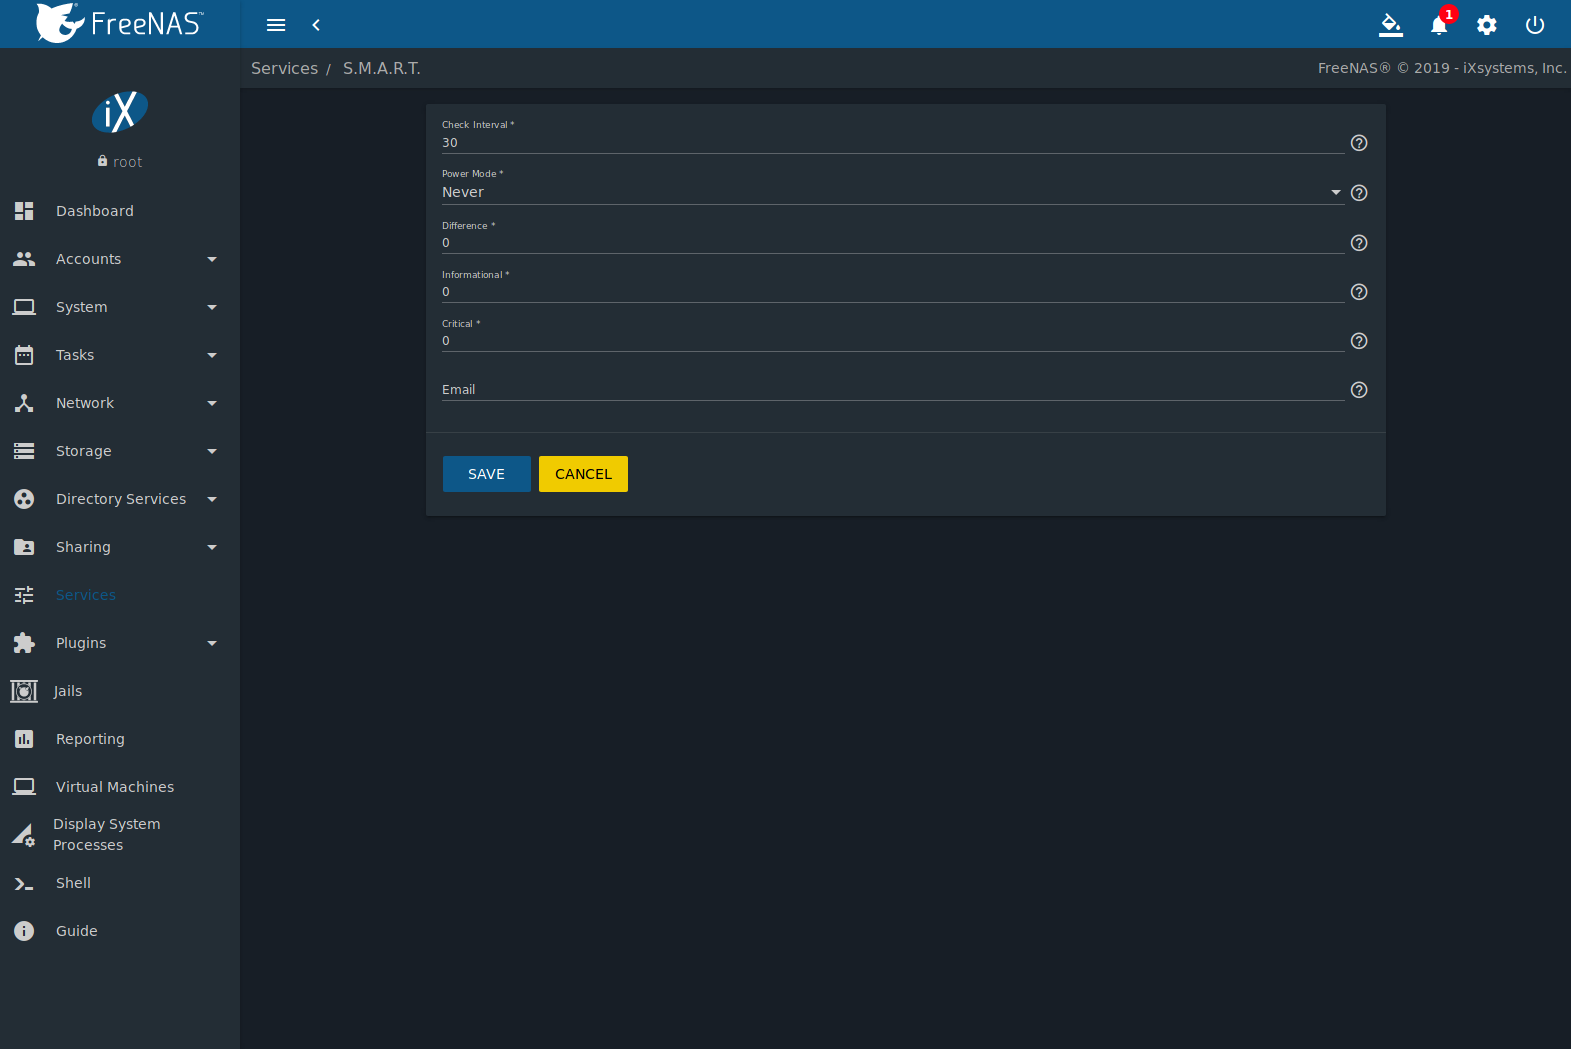
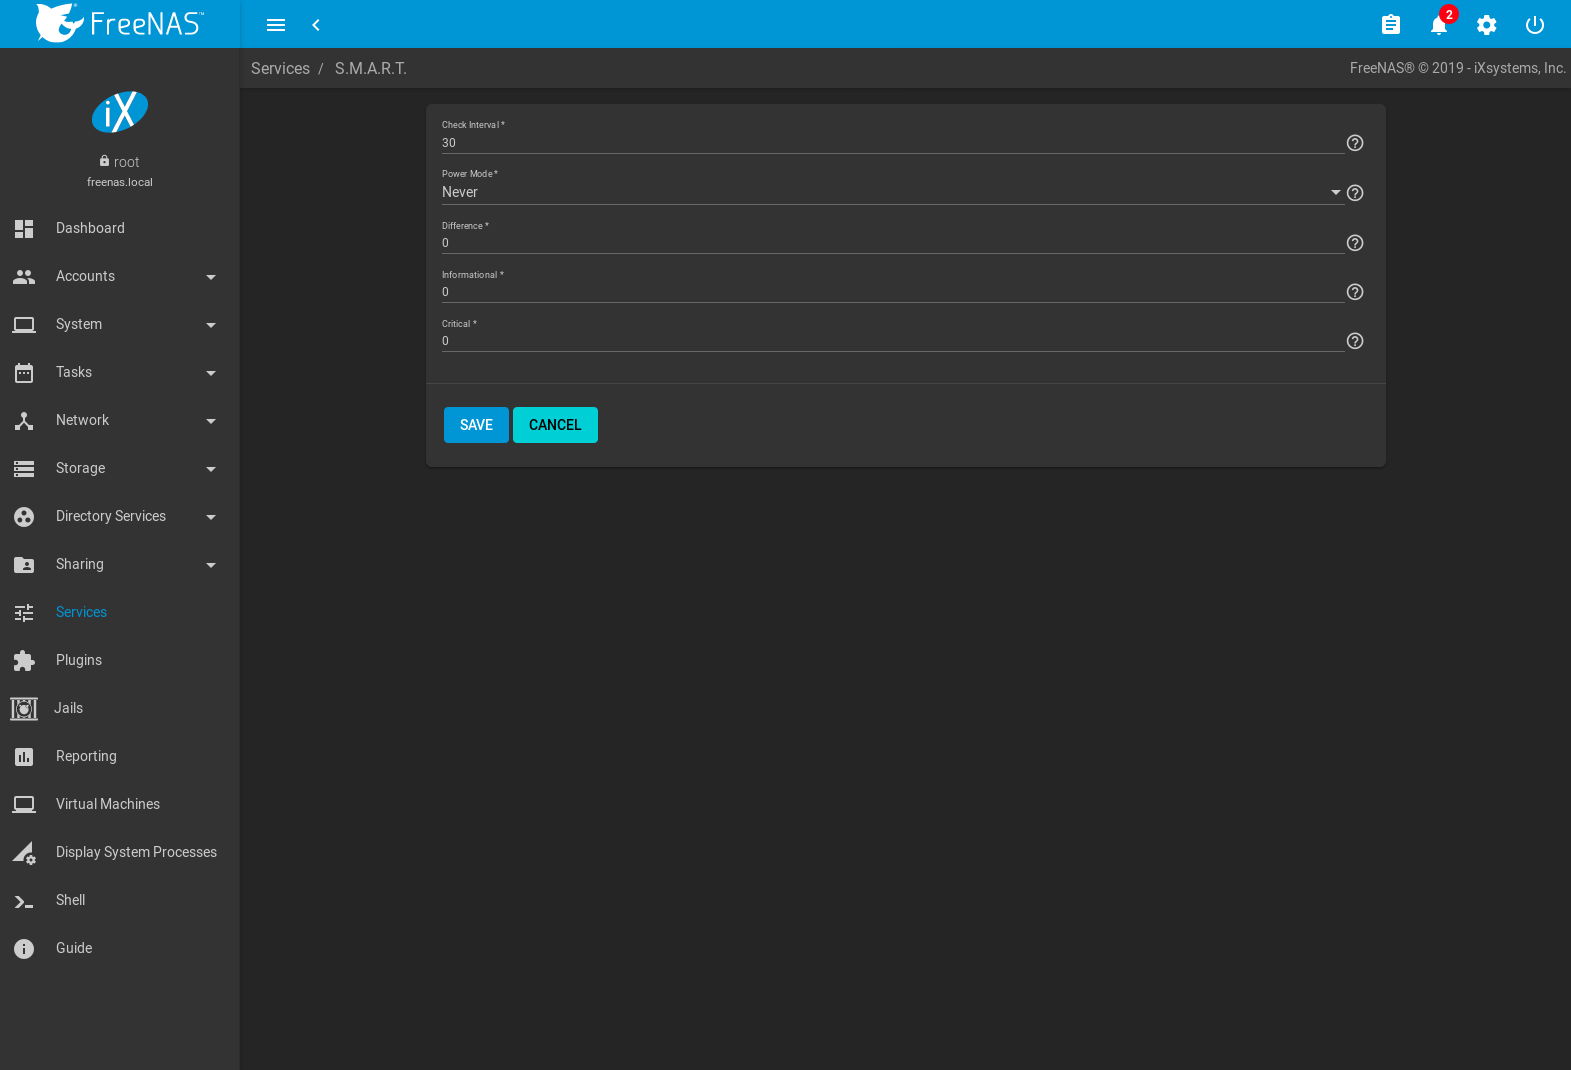
NAS-103035: Update SMART alert behavior - Add intro entry that communicates what has changed and the new behavior for previously configured SMART Alert Email addresses - Remove obsolete sentences from SMART tasks section. - Update SMART Service Configuration description - Update related image. - Ver

diff --git a/userguide/services.rst b/userguide/services.rst
@@ -1168,8 +1168,9 @@ complete configuration consists of:
 #.  Starting the S.M.A.R.T. service in :guilabel:`Services`.
 
 :numref:`Figure %s <smart_config_opts_fig>`
-shows the configuration screen that appears after clicking
-:menuselection:`Services --> S.M.A.R.T --> Configure`.
+shows the configuration screen that appears after going to
+:menuselection:`Services --> S.M.A.R.T`
+and clicking |ui-configure|.
 
 
 .. _smart_config_opts_fig:
@@ -1224,9 +1225,6 @@ summarizes the options in the S.M.A.R.T configuration screen.
    +-----------------+----------------------------+-------------------------------------------------------------------------------------------------------------+
    | Critical        | integer in degrees Celsius | Enter a threshold temperature in Celsius. S.M.A.R.T will message with a log level of LOG_CRIT and           |
    |                 |                            | send an email if the temperature is higher than the threshold. Default of *0* disables this option.         |
-   |                 |                            |                                                                                                             |
-   +-----------------+----------------------------+-------------------------------------------------------------------------------------------------------------+
-   | Email           | string                     | Enter email address to receive S.M.A.R.T. alerts. Use a space to separate multiple email addresses.         |
    |                 |                            |                                                                                                             |
    +-----------------+----------------------------+-------------------------------------------------------------------------------------------------------------+
 

diff --git a/userguide/intro.rst b/userguide/intro.rst
@@ -424,6 +424,12 @@ These screen options have changed:
 * :guilabel:`Domain Controller` has been removed from
   :ref:`Services`.
 
+* :guilabel:`Email` has been removed from the
+  :ref:`S.M.A.R.T. Service Options <S.M.A.R.T.>`. S.M.A.R.T. alerts are
+  configured as part of an :ref:`alert service <Alert Services>`. Note
+  that email addresses previously configured to receive S.M.A.R.T. alerts
+  now receive all %brand% :ref:`alerts <Alert>`.
+
 * :guilabel:`Host Sync` has been added to the
   :ref:`UPS service options <ups_config_opts_tab>`.
 

diff --git a/userguide/tasks.rst b/userguide/tasks.rst
@@ -687,13 +687,6 @@ the name of the drive. For example, to see the results for disk
   smartctl -l selftest /dev/ada0
 
 
-When an email address is entered in the :guilabel:`Email` field of
-:menuselection:`Services --> S.M.A.R.T. --> Configure`,
-the system sends an email to that address when a test fails. Logging
-information for S.M.A.R.T. tests can be found in
-:file:`/var/log/daemon.log`.
-
-
 .. index:: Periodic Snapshot, Snapshot
 .. _Periodic Snapshot Tasks:
 
